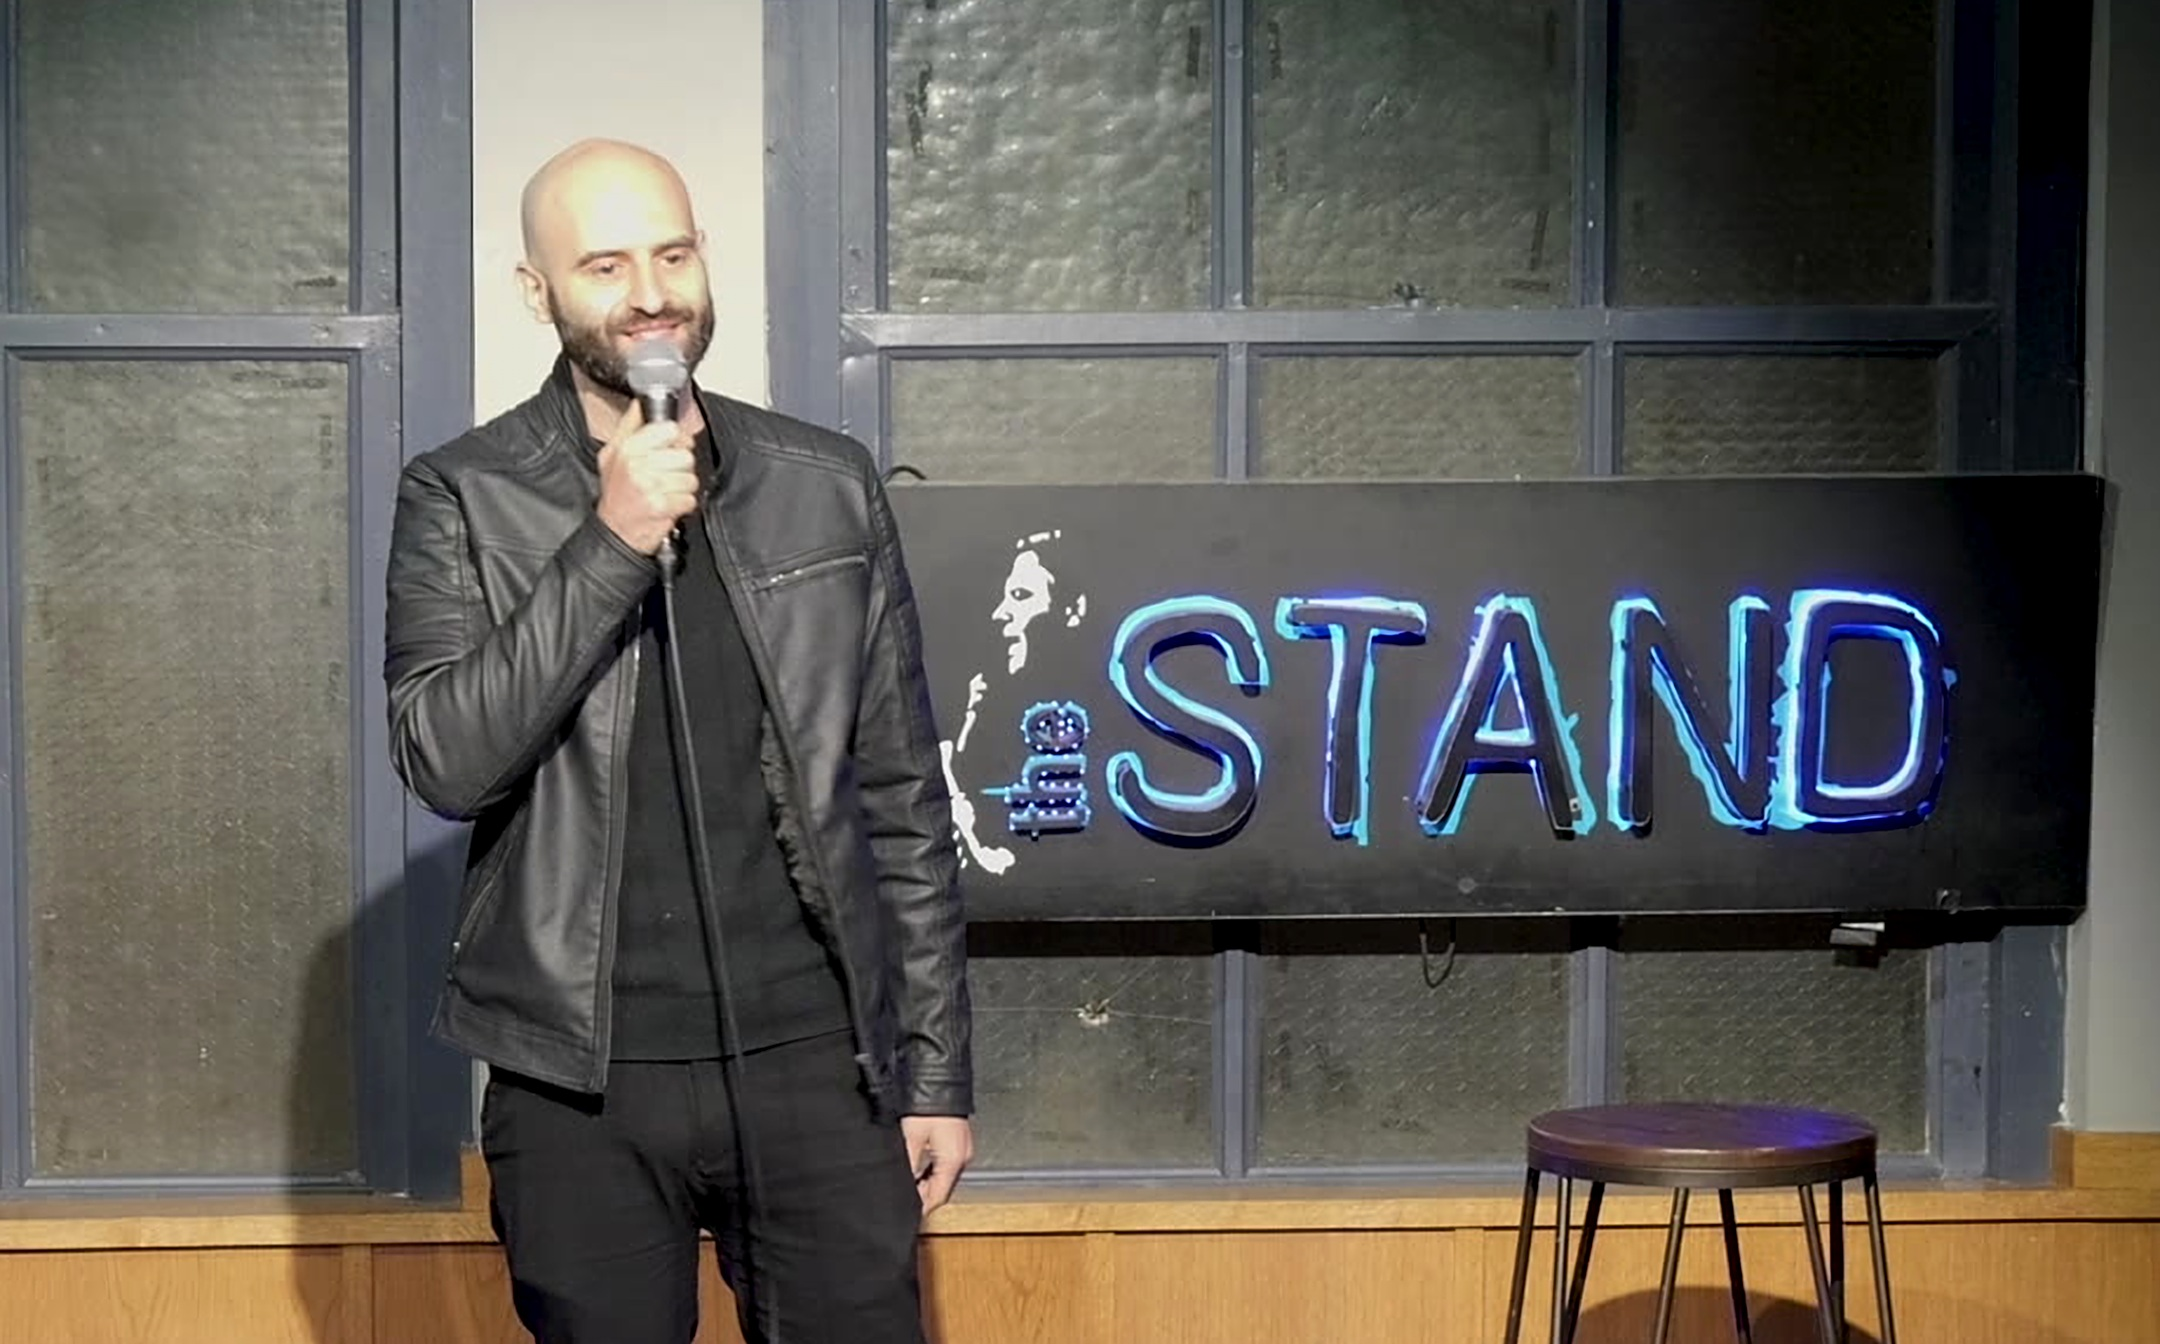
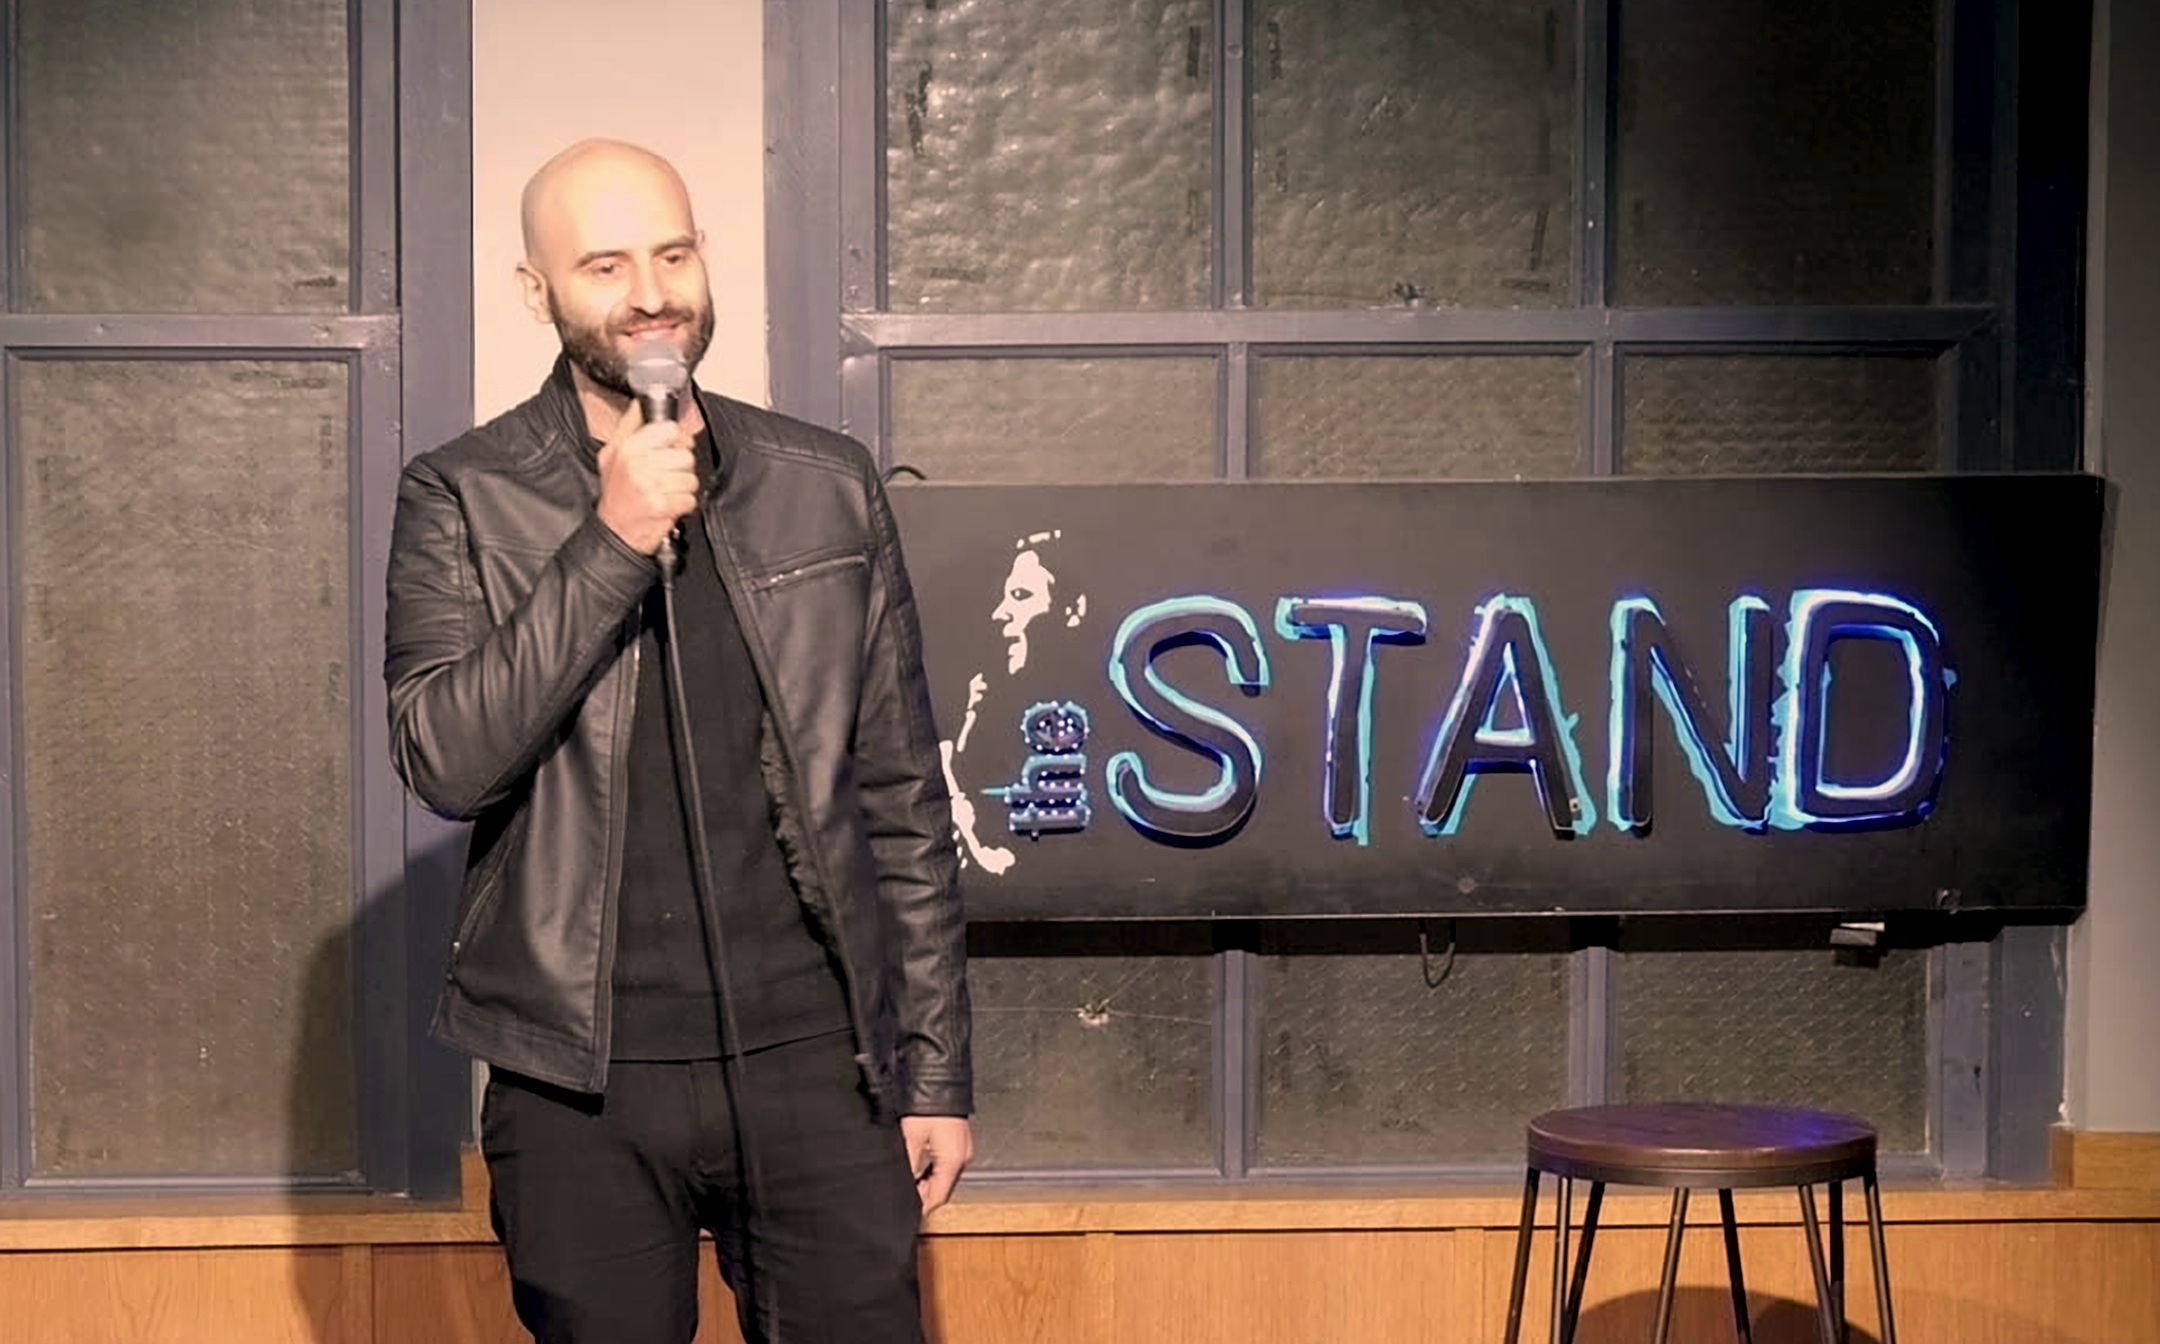
Color-correct Safe Word and Dark Jokes stills from skin tone
skingrade.py finds the face, sets channel gains so the cheeks hit a neutral
skin ratio, and eases saturation. Fixes the orange cast at St Marks and the
gray-yellow cast at The Stand.

Claude-Session: https://claude.ai/code/session_01EF93tfxUuMCYzNZMZAUpcb

diff --git a/joke-carousels/skingrade.py b/joke-carousels/skingrade.py
@@ -1,0 +1,32 @@
+"""Fix color from his skin: find the face, set channel gains so the cheeks hit a neutral skin ratio,
+apply at `k` strength, then tame saturation. Usage: skingrade.py in out [k] [sat]"""
+import sys, numpy as np, mediapipe as mp
+from mediapipe.tasks.python import vision
+from mediapipe.tasks.python.core.base_options import BaseOptions
+from PIL import Image, ImageEnhance
+src, dst = sys.argv[1:3]; k = float(sys.argv[3]) if len(sys.argv) > 3 else 0.8; sat = float(sys.argv[4]) if len(sys.argv) > 4 else 0.9
+TARGET = np.array([1.0, 0.80, 0.68])  # R:G:B of neutral light skin
+lm = vision.FaceLandmarker.create_from_options(vision.FaceLandmarkerOptions(
+    base_options=BaseOptions(model_asset_path="/tmp/claude-0/mp/face_landmarker.task"), num_faces=1, min_face_detection_confidence=0.3))
+im = Image.open(src).convert("RGB"); a = np.asarray(im).astype(np.float32); H, W = a.shape[:2]
+best = None
+for S in (W // 3, W // 5):
+    for x0 in range(0, W - S + 1, S // 2):
+        for y0 in range(0, H - S + 1, S // 2):
+            crop = np.ascontiguousarray(a[y0:y0+S, x0:x0+S].astype(np.uint8))
+            r = lm.detect(mp.Image(image_format=mp.ImageFormat.SRGB, data=crop))
+            if r.face_landmarks:
+                p = r.face_landmarks[0]; best = [(x0 + q.x * S, y0 + q.y * S) for q in p]; break
+        if best: break
+    if best: break
+if not best: sys.exit(f"no face in {src}")
+# cheeks + forehead landmarks
+idx = [50, 280, 101, 330, 10, 151, 108, 337]
+px = np.array([a[int(best[i][1]), int(best[i][0])] for i in idx]); r = 6
+px = np.array([a[int(best[i][1])-r:int(best[i][1])+r, int(best[i][0])-r:int(best[i][0])+r].reshape(-1, 3).mean(0) for i in idx])
+skin = np.median(px, axis=0); ratio = skin / skin[0]
+gain = TARGET / ratio; gain = gain / gain.mean() * (skin.mean() / (skin * gain / gain.mean()).mean())
+gain = 1 + k * (gain - 1)
+out = np.clip(a * gain, 0, 255).astype(np.uint8)
+ImageEnhance.Color(Image.fromarray(out)).enhance(sat).save(dst, quality=94)
+print(dst, "skin", np.round(skin), "gain", np.round(gain, 3))
